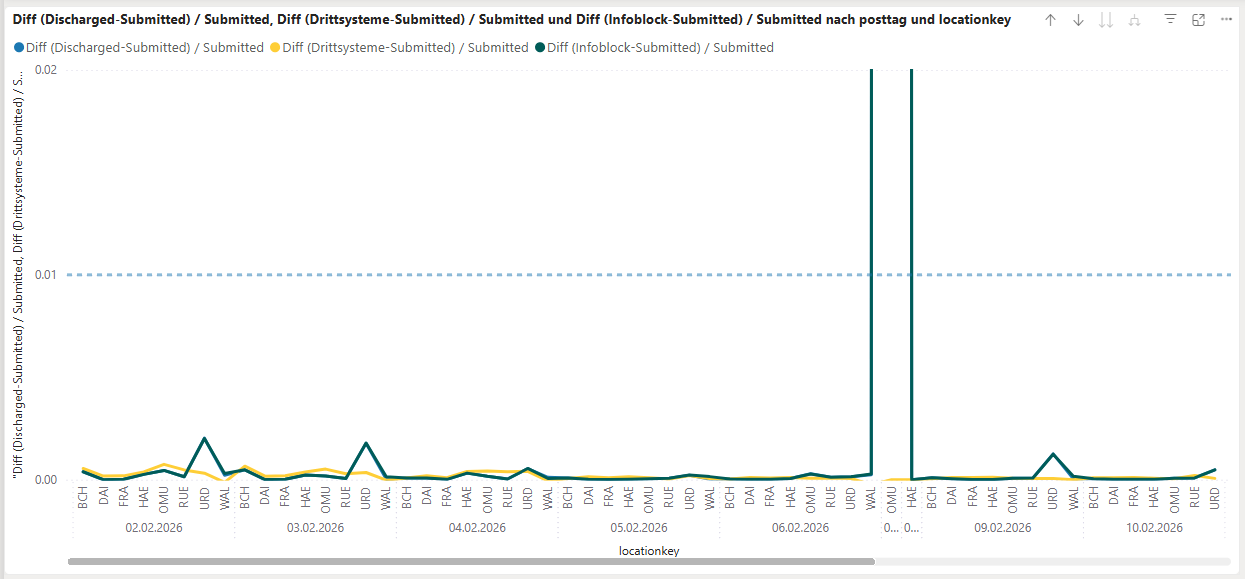
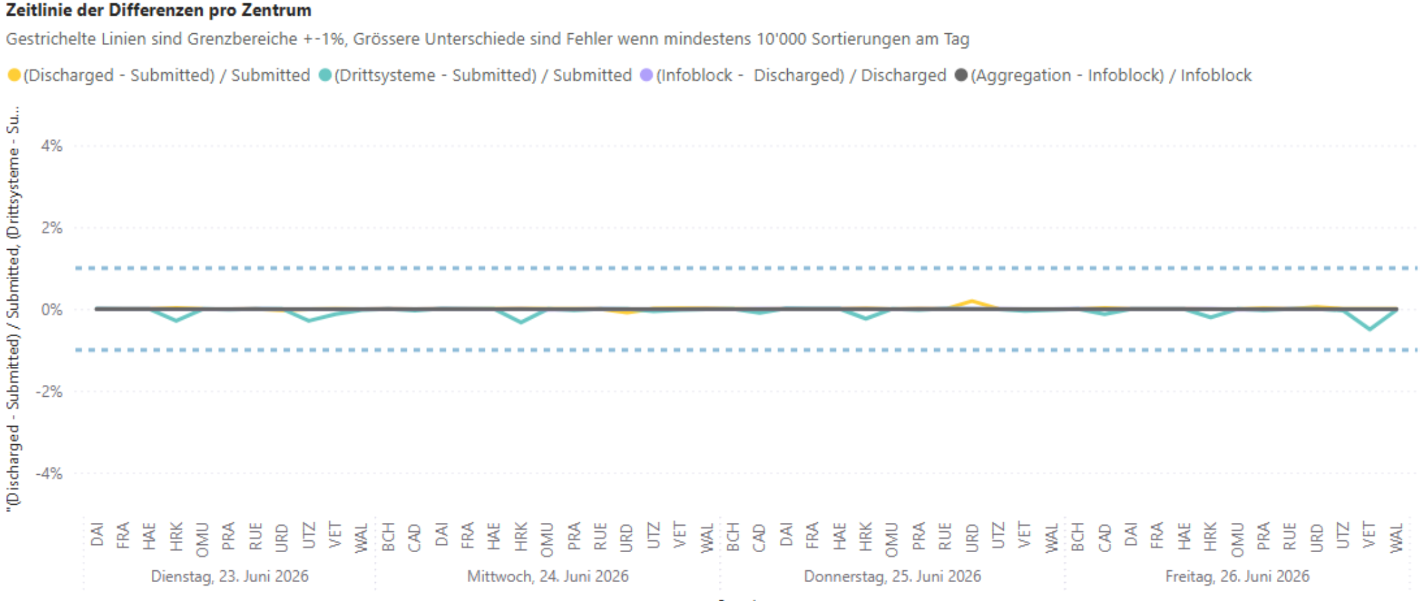
working on solution landscape, partly done

Changed region(s): [[0.0, 0.0, 1.0, 1.0]]

diff --git a/SolutionlandscapeProj2.tex b/SolutionlandscapeProj2.tex
@@ -1,2 +1,74 @@
 
-\section{Project 2 MTE7102 Bla}
+\section{Report visualisations and evaluations}
+After the basic solution landscape this project now dives deeper into the more specific context of report visualisations and evaluation of automatisation.
+
+\subsection*{Power BI}
+
+At Swiss Post in the environment of the \gls{DWHLSOPS}, \gls{PowerBI} is the set business intelligence tool. It is to replace the currently used tools over time. The main reasons for this shift are the lower license cost in comparision with the previous \gls{SAC} and furthermore it has performed faster in direct comparision tests with its predesessor. Therefore, Power BI served as BI tool in this project, as it is specifically replacing an old report in \gls{SAC}.
+\subsubsection*{Architectural position}
+When considering the data lineage, Power BI is replacing both the \gls{DSP} on the data model side, as well as the front end part of \gls{SAC}. So in total it is replacing the work areas of the business stakeholders coworking with the \gls{DWHLSOPS} team. This is so because they are involved both in the generation of testing and updating the reports on the reporting and monitoring layer.
+
+\subsection*{Star shema}
+During the speed tests and comparisions with the old business intelligence tool, the star shema as a data architecture was tested. It showed that \gls{PowerBI} was performing better with this new structure. 
+
+\subsubsection*{Basic architectureof star shema}
+When looking at data base architecture, a star shema is basically a partly denormalised database which has been optimised for fast \gls{OLAP} processing. In computing, online analytical processing (OLAP), is an approach to quickly answer multi-dimensional analytical (MDA) queries. This describes the ground work that reporting has to perform in the \gls{DWHLSOPS} team.
+
+A star shema is described by wikipedia in the following way \cite{enwiki:1306074452}:
+\begin{quote}
+\textit{In computing, the star schema or star model is the simplest style of data mart schema and is the approach most widely used to develop data warehouses and dimensional data marts. The star schema consists of one or more fact tables referencing any number of dimension tables. The star schema is an important special case of the snowflake schema, and is more effective for handling simpler queries.
+The star schema gets its name from the physical model's resemblance to a star shape with a fact table at its center and the dimension tables surrounding it representing the star's points.}
+\end{quote}
+
+
+\subsubsection*{Basic architectureof Wide table}
+In contrast to a star shema, a wide table is storing all the data in one big, very wide table. This concept of \gls{widetable} was introduced at Swiss Post, together with \gls{SAC}. In a wide table, the data is not split in different tables, but instead for every dataset all measures existing are repeated. For example every data point measurement that happened at the same factory, would have the same identifying measures of an address repeated rather than only 1 key pointing to a adresses table.
+
+A short concise description of the concept can be found at  \cite{enwiki:QuestDBWideTable}:
+\begin{quote}
+\textit{
+Wide tables are the opposite of narrow tables, storing multiple related attributes horizontally rather than vertically. In time-series applications, a wide table typically has a timestamp column followed by numerous metric columns, making it efficient to retrieve multiple metrics for a given time point.}
+\end{quote}
+
+
+\subsection*{Reporting idea}
+When considering the previous report generated trough \gls{SAC}, it can be seen that is is not very visual. The data is only shown as a table without color highlights or additional indications. Without sufficient business knowhow it did not allow a user to see wether the data quality was ok or not for a specific day. The current report is shown in the following.
+\begin{figure}[H]
+    \centering
+    \includegraphics[width=0.95\textwidth]{./content/img/Plain_DQM_WEST_19-12-2025_08-43-34.png}
+    \caption{Existing plain DQM dashboard used as the baseline for the redesigned Power BI report}
+    \label{fig:plain_dqm_dashboard}
+\end{figure}
+
+To improve this situation, a report which hast to replace it, must be more visual. And apply some of the most basic business knowledge allowing to see its results faster. As the previous research has already defined which rules must be applied in an automatic check, those rules are the basis for the reports visualisation.
+
+\subsubsection{Business stakeholder feedback}
+During meetings with the business their requirements were accumulated. Those were simple, the report had to be upgraded to use the new data source. Since with the adoption of Power BI, also a more efficient reporting datastructure was possible, it had to be again measurable. As the data itself was only rearranged but not radically new, the checks and the way they had to be shown in a table stayed the same.
+
+
+
+\subsection*{DevOps}
+What post does
+basic principle---
+what does post do
+\subsubsection*{Backend deployment pipelines}
+\subsubsection*{Frontend}
+
+\subsection*{Tool selection principles}
+buy before build
+cloud first
+requirement list
+
+\subsection*{DQM tooling test}
+Goal of the test...
+Preparation for follow up research
+Linkage to follow up
+
+
+\subsubsection*{Design decisions}
+continue on the DQM check
+a already researched data lineage
+a already defined rule when data is ok
+have the check automatised
+This follows the concept of automatisation as from the first project
+

diff --git a/glossary.tex b/glossary.tex
@@ -435,3 +435,29 @@ description={Each scrum team has one product owner. The product owner focuses on
     text={AWS Management Console},
     description={The web-based user interface of Amazon Web Services that provides centralized access to configure, manage, and monitor AWS services and resources}
 }
+
+\newglossaryentry{PowerBI}
+{
+    name={Microsoft Power BI (PBI)},
+    text={Power BI},
+    description={Microsoft Power BI (PBI) is an interactive data visualization, database management, and data modeling software product developed by Microsoft with a primary focus on business intelligence (BI).}
+}
+
+\newglossaryentry{OLAP}
+{
+    name={OLAP},
+    text={OLAP},
+    description={In computing, online analytical processing (OLAP) , is an approach to quickly answer multi-dimensional analytical (MDA) queries. The term OLAP was created as a slight modification of the traditional database term online transaction processing (OLTP). OLAP is part of the broader category of business intelligence, which also encompasses relational databases, report writing and data mining.}
+}
+
+\newglossaryentry{widetable}
+{
+    name={Wide table},
+    text={wide table},
+    description={A wide table is a database table structure characterized by a large number of columns, often dozens or hundreds, storing multiple attributes about each record in a single row. In time-series databases, wide tables are commonly used for storing sensor data, financial market data, and other scenarios where many metrics need to be captured at each timestamp.}
+}
+
+
+
+
+